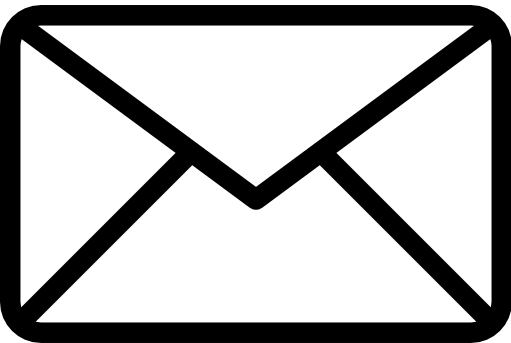
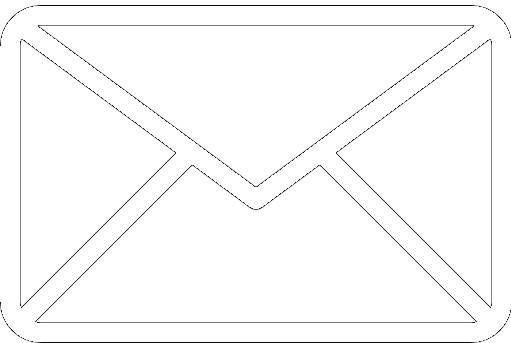
Work on contact part

Changed region(s): [[0.0, 0.0, 1.0, 1.0]]

diff --git a/index.html b/index.html
@@ -10,7 +10,7 @@
 		<div id="navbar">
 			<button id="test"><a data-scroll href="#name">Name</a></button>
 			<button><a data-scroll href="#skill">Skill</a></button>
-			<button><a data-scroll href="#projet">Projet</a></button>
+			<button><a data-scroll href="#project">Project</a></button>
 			<button><a data-scroll href="#contact">Contact</a></button>
 		</div>
 
@@ -35,18 +35,18 @@
 			<div id="right">
 				<div class="content">
 					<span id="skill_1">
-					 <spas class="red">English</spas>	(Level B2)
+						<spas class="red">English</spas> (Level B2)
 					</span>
 					<div class="progress" id="id1"></div>
 					<br />
 					<span id="skill_2">
-						<span class="orange">HTML</span> / <span class="blue">CSS</span> / <span class="yellow">JS</span>
+						<span class="orange">HTML</span> / <span class="blue">CSS</span> /
+						<span class="yellow">JS</span>
 					</span>
 					<br />
 					<div class="progress" id="id2"></div>
 					<br />
-					<span id="skill_3"
-						>Skill 3</span>
+					<span id="skill_3">Skill 3</span>
 					<br />
 					<div class="progress" id="id3"></div>
 				</div>
@@ -54,7 +54,7 @@
 		</div>
 
 		<!-- ! Part project   -->
-		<div class="project" id="projet">
+		<div class="project" id="project">
 			<div class="first">
 				<a href="http://www.google.fr" target="_blank">
 					<p>
@@ -107,12 +107,38 @@
 
 		<!-- ! Part contact -->
 		<div class="contact" id="contact">
-			<div class="main_text"></div>
-			<div class="discord"></div>
-			<div class="mail"></div>
+			<div class="main_text">
+				<p class="content">
+					<span class="title">Contact :</span>
+					<br />
+					For any project you can contact me with the links below :
+				</p>
+			</div>
+			<div id="discord">
+				<a
+					href="https://discordapp.com/users/188911626479599626/"
+					target="_blank"
+				>
+					<p>
+						<span class="title">Discord : </span>
+						<br />
+						<img src="image/discord.png" />
+					</p>
+				</a>
+			</div>
+			<div id="mail">
+				<a href="mailto:erwann.dev@gmail.com" target="_blank">
+					<p>
+						<span class="title">Mail : </span>
+						<br />
+						<img src="image/emailbox.png" />
+					</p>
+				</a>
+			</div>
 		</div>
 		<!-- ! Script -->
 		<script src="https://cdn.jsdelivr.net/gh/cferdinandi/smooth-scroll@15/dist/smooth-scroll.polyfills.min.js"></script>
 		<script src="script.js"></script>
 	</body>
 </html>
+

diff --git a/style.css b/style.css
@@ -17,6 +17,10 @@ body {
 html {
 	scroll-behavior: smooth;
 }
+a {
+  color: inherit; /* blue colors for links too */
+  text-decoration: inherit; /* no underline */
+}
 .orange {
 	color: orange;
 }
@@ -28,6 +32,9 @@ html {
 }
 .red {
 	color: red;
+}
+.title{
+	text-decoration: underline;
 }
 
 /* ! Part navbar */
@@ -201,7 +208,6 @@ div#id3:after {
 /*  ! Part Contact */
 .contact {
 	height: 100vh;
-	background-color: rgba(73, 226, 43, 0.4);
 	display: grid;
 	grid-template-columns: 1fr 1fr;
 	grid-template-rows: 1fr 1fr;
@@ -212,18 +218,43 @@ div#id3:after {
 		'Discord Mail';
 }
 .main_text {
+	text-align: center;
 	grid-area: Main_text;
-	background-color: rgba(100, 0, 0, 0.4);
+}
+.main_text .content{
+	margin-top: 20%;
+	font-size: 2em;
+}
+.main_text .content .title{
+	font-size: 2em;
 }
 
-.discord {
+#discord {
+	font-size: 2.5em;
+	text-align: center;
 	grid-area: Discord;
-	background-color: rgba(255, 217, 0, 0.2);
+}
+#discord p{
+	margin-top: 50%;
+	transform: translatey(-50%);
+}
+#discord img{
+	margin-top: 20px;
+	width: 8em;
 }
 
-.mail {
+#mail {
+	font-size: 2.5em;
+	text-align: center;
 	grid-area: Mail;
-	background-color: rgba(216, 112, 147, 0.3);
+}
+#mail p{
+	margin-top: 50%;
+	transform: translatey(-50%);
+}
+#mail img{
+	margin-top: 20px;
+	width: 8em;
 }
 
 /* ! telephone */

diff --git a/script.js b/script.js
@@ -1,3 +1,17 @@
 var scroll = new SmoothScroll('a[href*="#"]', {
 	speed: 50,
 });
+
+var clearButton = document.getElementById('discord');
+clearButton.onclick = discord_function;
+
+function discord_function(){
+	window.open("https://discordapp.com/users/188911626479599626/", "_blank",)
+}
+
+var clearButton = document.getElementById('mail');
+clearButton.onclick = mail_function;
+
+function mail_function(){
+	window.open("mailto:erwann.dev@gmail.com", "_blank",)
+}
